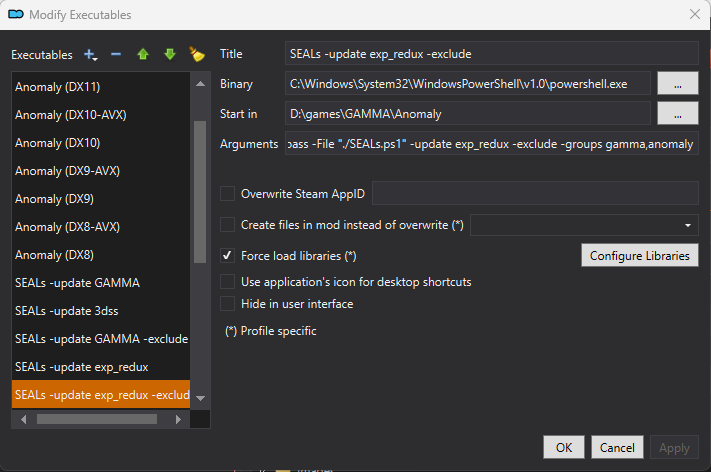
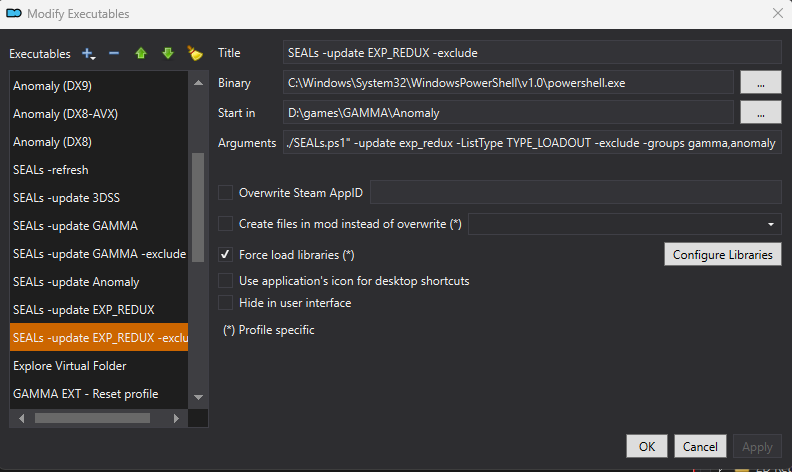
update doc

diff --git a/README.md b/README.md
@@ -186,23 +186,6 @@ The **SEALs** main mod uses the ***group list*** from the configs modules to dis
 
 ![env_var](doc/images/env_var.png)
 
-5) Create your first CLI MO2 executable shortcut - ***refresh***
-
-create this executable in MO2 and run it at least once against your modlist of reference. e.g. GAMMA, custom modlist, etc.
-
->[!TIP]
-> Create this shortcut in MO2 now
-
-![refresh_mo2](doc/images/refresh_mo2.png)
-
-`-ExecutionPolicy Bypass -File "SEALs.ps1" -refresh`
-
-6) Select your profile in MO2 and run ***refresh*** to generate CLI base lists.
-
-![run_refresh](doc/images/run_refresh.png)
-
-This will create a number of base lists, e.g. the list of scopes available in the modlist, that CLI uses for its operations.
-
 ## Templating
 
 CLI allows you to create named configs projects from templates. These projects or mod, will be empty and require the compilation of the **group list** inside. Such compilation can be done manually or automatically through CLI geneneration functions.
@@ -283,26 +266,34 @@ SEALs.ps1 -add <sealid> -from "<mod_name>"
 
 Add to the group config new gun sections from a mod (from loadouts files)
 
-### CLI static switch
+### CLI ListType
 
-Use the `-static` switch to generate group list from weapon files instead of loadouts
+By default all the group list are generated by scanning data from weapon base files (e.g. `w_{{weapon-name}}.ltx`). These types of list are named `TYPE_BASE`
 
-When using `-from` in `new` and `add` by default you are generating from loadouts, if you want instead generate from base weapon files (e.g. w_ak74.ltx) pass the `-static` switch to the command
+You can generate weapon group lists using these lists types:
+
+- `TYPE_BASE`: generates from base weapon files
+- `TYPE_LOADOUT`: generate from loadout files and treasure caches
+- `TYPE_TRADE`: generates from trade files
+- `TYPE_MOD`: generates from mod's overrides files (e.g. `mod_system_{{mod-name}}.ltx`)
+
+Special kind of list types:
+
+These list types are used to generate not weapon groups but 3dss group lists or scope group lists
+
+- `TYPE_3DSS`: generates from 3DSS files
+- `TYPE_ADDON`: generates from weapons's addons files
+
+Use ListType parametes to specify a list type
 
 ```powershell
-SEALs.ps1 -add <sealid> -from "<mod_name>" -static
+SEALs.ps1 -add <sealid> -from "<mod_name>" -ListType TYPE_LOADOUT
 ```
 
-The resulting group list can be more inclusive or identical depending on the mod loadouts configuration and if they are included or not  
+>[!CAUTION]
+>not all commands support all List Types
 
-The rules of thumb whether whether use the static switch or not are the following:
-
-- observation based rule: run first without static, if the output does not adds any sections to the group list then try with static
-
-- knowledge based rule: if the mod from which you are adding, introduces a **new** gun it will have loadouts files to add this gun to the game thus run without `static`, otherwise if the mod is a gun replacement than likely it won't have any loadouts therefore you must use the `static` switch 
-
-> [!TIP]
-> Honestly, the **observation** based rule it's the easier to apply.
+In the above example we speficied TYPE_LOADOUT instead of TYPE_BASE (default one) so we add from the loadouts lists that are in the mod not the weapon base files.  
 
 ### CLI clear
 
@@ -334,12 +325,12 @@ Both are empty and need to be compiled with data from the modlist. Let's look ho
 
 ### CLI GAMMA generation
 
-To use **CLI** to generate such group list you pass the name `gamma` alongside with the `update|generate` switches.
+To use **CLI** to generate such group list you pass the name `gamma` alongside with the `update|generate` switches and `-ListType TYPE_LOADOUT`
 
 e.g.
 
 ```powershell
-SEALs.ps1 -update gamma
+SEALs.ps1 -update gamma -ListType TYPE_LOADOUT
 ```
 
 >[!TIP]
@@ -349,18 +340,24 @@ SEALs.ps1 -update gamma
 
 ![gamma_mo2](doc/images/gamma_mo2.png)
 
-`-ExecutionPolicy Bypass -File "SEALs.ps1" -update gamma`
+`-ExecutionPolicy Bypass -File "SEALs.ps1" -update gamma -ListType TYPE_LOADOUT`
+
+>[!CAUTION]
+
+![gamma_gen_prereq](doc/images/gamma_gen_prereq.png)
+
+remember you need all the mod installed before proceeding with the execution of this shortcut. The tutorial section, next, will show how to run.
 
 ### CLI 3DSS generation
 
 The 3DSS group list is a reserved name. 
 
-To use **CLI** to generate such group list you use the switch `-3dss` alongside with the `update|generate` switches
+To use **CLI** to generate such group list you pass the name `3dss` alongside with the `update|generate` switches
 
 e.g.
 
 ```powershell
-SEALs.ps1 -update -3dss
+SEALs.ps1 -update 3dss
 ```
 
 >[!TIP]
@@ -370,9 +367,9 @@ SEALs.ps1 -update -3dss
 
 ![3dss_mo2](doc/images/3dss_mo2.png)
 
-`-ExecutionPolicy Bypass -File "./SEALs.ps1" -update -3dss`
+`-ExecutionPolicy Bypass -File "./SEALs.ps1" -update 3dss`
 
-### Static prefab
+### Configuration prefab
 
 These modules contain modlist data already compiled, which can be used as is but can be also used are reference data during the generation of other modules configs
 
@@ -388,15 +385,15 @@ You can use the CLI in the MO2 VFS with only two commands (update|generate)
 ### CLI update
 
 ```powershell
-"./SEALs.ps1" -update <group_for_updating> -exclude -groups <groups_for_exclusion>
+"./SEALs.ps1" -update <group_for_updating> -ListType <list_type> -exclude -groups <groups_for_exclusion>
 ```
 
 for example
 
-Assuming you are on the stock gamma profile, you can generate the seals of the current available guns in GAMMA
+Assuming you are on the stock gamma profile, with the following command, you will generate a group list that includes the guns that GAMMA alone adds to Anomaly vanilla set of guns. 
 
 ```powershell
--update gamma -exclude -groups anomaly
+"./SEALs.ps1" -update gamma -exclude -groups anomaly
 ```
 
 the command above (when run in VFS) will update the gamma group list `seals_group_gamma.ltx`, contained in the **SEALs Config - GAMMA** mod, with all the available guns in GAMMA, e.g. present in loot tables or referenced for drops or rewards. 
@@ -413,15 +410,25 @@ e.g.
 -generate gamma
 ```
 
-### CLI refresh
+### CLI nocache option
 
-You need to run this as MO2 executable every time you update the ***SEAL CLI*** mod or you make guns related changes (e.g. new scopes) to the modlist or if you swap profile in MO2 that has a different mod list than the previous one
+CLI commands need to build a number of base list to fully operate and sort the output data. 
 
-![refresh_mo2](doc/images/refresh_mo2.png)
+One of such list (e.g. scopes), once built are cached on subsequent command execution. 
 
-`-ExecutionPolicy Bypass -File "SEALs.ps1" -refresh`
+However these lists are dependent on the content of the modlist, so if you change the profile in MO2 or add mods to the current modlist you should rebuild the cache.
 
-This will refresh CLI base lists
+To rebuild these lists, you can use the -nocache option at the first command on the update/new modlist
+
+e.g.
+
+```powershell
+-generate gamma -nocache
+```
+
+or delete the cached files directly at 
+
+`overwrite\generation\cache`
 
 ### CLI rarity
 
@@ -464,7 +471,9 @@ CLI logs the latest command execution in `generation\output\seals.log`
 
 ### Summary report logs
 
-CLI logs the summary report of the latest generation in two folders:
+CLI logs the summary report of the latest generation in its named folder `sealid`:
+
+- `overwrite\generation\output\sealid\` contains generated weapon lists and the following folders below
 
 - `overwrite\generation\output\sealid\hit` contains report of all the file hits when searching for sections
 
@@ -472,7 +481,7 @@ CLI logs the summary report of the latest generation in two folders:
 
 - `overwrite\generation\output\sealid\miss` contains report of all the file miss when searching for sections
 
-- `overwrite\generation\output\gamma\miss\files` contains all the files that recorded a miss
+- `overwrite\generation\output\sealid\miss\files` contains all the files that recorded a miss
 
 ## CLI Tutorials
 
@@ -482,11 +491,15 @@ CLI logs the summary report of the latest generation in two folders:
 
 1) be on the **default** GAMMA profile in MO2
 
-2) run the CLI executable *SEALs -update GAMMA* in MO2 
+2) install and enable all the necessary SEALs mods
+
+![gamma_gen_prereq](doc/images/gamma_gen_prereq.png)
+
+3) run the CLI executable *SEALs -update GAMMA* in MO2 
 
 ![update_gamma](doc/images/update_gamma.png)
 
-3) the gamma group list file in the mod is updated 
+4) the gamma group list file in the mod is updated 
 
 ![gamma_grp_list](doc/images/gamma_grp_list.png)
 
@@ -511,7 +524,9 @@ wpn_ak104_alfa
 
 1) be on any profile
 
-2) install and enable **SEALs Config - Anomaly**
+2) install and enable all the necessary SEALs mods
+
+![end_user](doc/images/end_user.png)
 
 3) run the CLI executable *SEALs -update 3dss* in MO2 
 
@@ -537,14 +552,16 @@ wpn_ak104_alfa
 
 1) be on your custom profile e.g. `exp_redux`
 
-2) install and enable **SEALs Config - Anomaly**
+2) install and enable all the necessary SEALs mods
+
+![custom_modlist_req](custom_modlist_req.png)
 
 3) create a new **blank** SEALs template using CLI `new`
 
 ```powershell
 SEALs.ps1 -new exp_redux
 ```
-
+>[!TIP]
 > follow the ***templating*** guide above for all the steps, like editing template.ini etc.
 
 now you should have a blank SEALs mod in MO2 which can name **SEALs Config - EXP Redux**
@@ -776,9 +793,12 @@ This file define the strings used by the custom seal mainly two string
 		<text>Scope</text>
 	</string>	
 	<!-- seal mcm toggle -->
-	<string id ="ui_mcm_seals_3dss_show">
-		<text>3DSS</text>
+	<string id ="ui_mcm_seals_3dss">
+		<text>3DSS (3dss)</text>
 	</string>
+	<string id ="ui_mcm_seals_3dss_desc">
+		<text>This seal signifies that the weapon has built-in 3DSS support</text>
+	</string>			
 	<!-- seal caption -->
 	<string id ="ui_seals_3dss_caption">
 		<text>3D Scopes</text>
